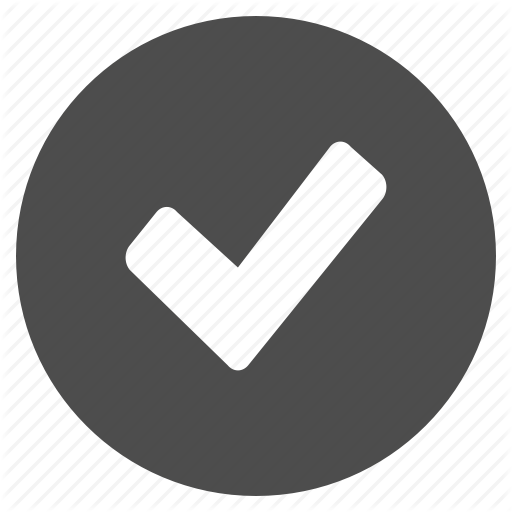
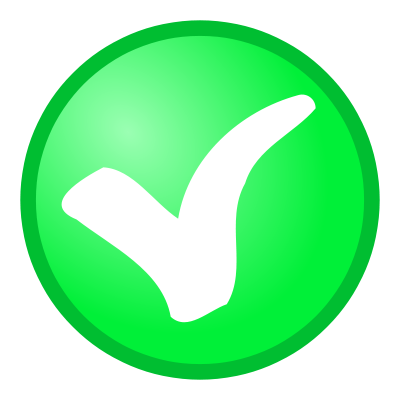
Austausch der Button Bilder, Anpassungen hier und da in Leserlichkeit

diff --git a/CSS/client.css b/CSS/client.css
@@ -142,8 +142,9 @@ table, th, td {
 	/*font-family: cursive;*/
     font-variant: small-caps;
     text-align: -webkit-center;
-    color: darkred;
-    font-size: -webkit-xxx-large;
+    color: lightgray;
+	text-shadow: 0 0 0.2em #000000, 0 0 0.2em rgb(156, 156, 156), 0 0 0.2em #313037;
+    font-size: 100px;
 	position: relative;
 }
 
@@ -160,15 +161,15 @@ table, th, td {
 }
 
 .check{
-	width: 30%;
+	width: 38%;
 }
 
 .check_final{
-	width: 30%;
+	width: 38%;
 }
 
 .check_final_final{
-	width: 30%;
+	width: 38%;
 }
 
 
@@ -234,7 +235,7 @@ h3.heading{
 }
 
 .notification_icon{
-	height: 100%;
+	height: 90%;
 }
 
 .textbox_label{
@@ -283,8 +284,8 @@ h3.heading{
 	width : 80%;
 	margin-left : 10%;
 	padding-top : 5%;
-	padding-bottom : 2%;
-	border-bottom : 3px solid rgba(200,240,200,1);
+	padding-bottom : 5%;
+	border-bottom : 15px solid rgba(0, 0, 0, 0.22);
 }
 
 #abort_button{
@@ -447,6 +448,7 @@ h3.heading{
 	display: none;
 	font-size: 44px;
 	background-color: rgba(255, 255, 255, 0.9);
+	border: 5px solid rgba(255,50,50,1);
 }
 
 #infoLabel{

diff --git a/JavaScript/client.js b/JavaScript/client.js
@@ -320,6 +320,7 @@ function buildLocationDetectionScreen(parentDiv){
 	infoLabel.style.display = '-webkit-box';
 	infoLabel.style.textAlign = '-webkit-center';
 	infoLabel.style.paddingTop = '10%';
+	infoLabel.style.fontSize = '70px';
 	
 	
 	parentDiv.appendChild(loadingIconImage);
@@ -404,6 +405,7 @@ function showDrunkMenuWaitingDialog(drunk_menu_container) {
 	drunk_menu_container.appendChild(carLabel);
 	drunk_menu_container.appendChild(timeLabel);
 	drunk_menu_container.appendChild(nextButton);
+	hideAbortButton();
 	
 	
 }
@@ -538,7 +540,7 @@ function createNotifications(){
 			$("#notification").html("?");
 			$('#notification').animate({
 				height:"40%",
-				width:"100%"
+				width:"99%"
 			}, 1000);
 			console.log("display Data in Notifications");
 			createTable(soonTargets.locations, document.getElementById("notification"), "vertical");
